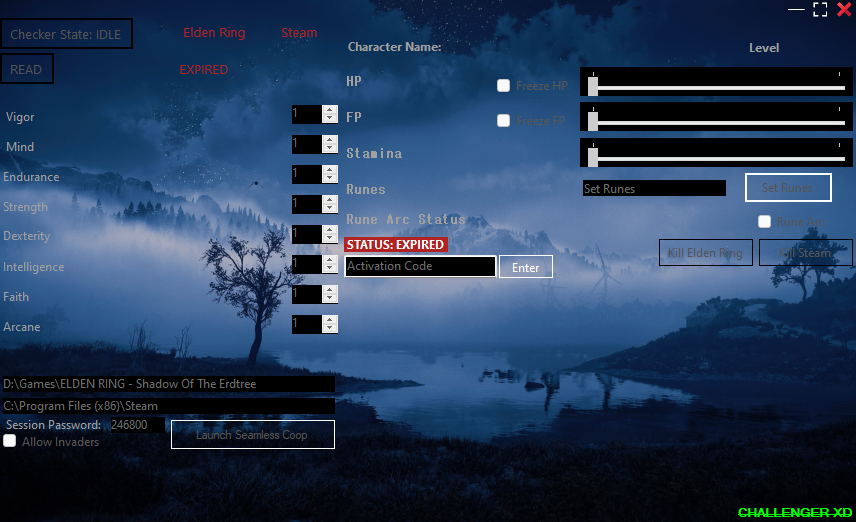
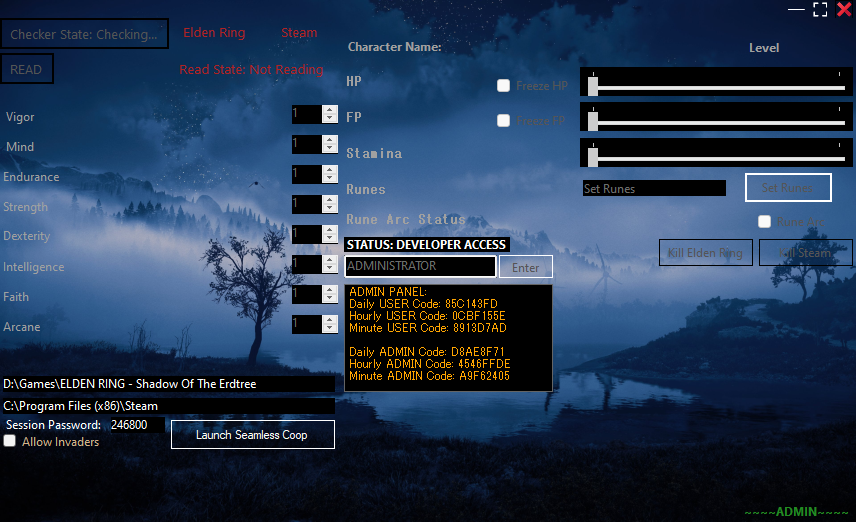
update readme.md

diff --git a/readme.md b/readme.md
@@ -1,4 +1,4 @@
-**Elden Ring Manager**
+**Elden Ring Manager ~ADMIN ONLY~**
 
 - ***ERM*** Aims to fix Seamless Coop Mod for older game Versions ex: v1.12  
 - ***ERM*** will **NEVER** manipulate game's Save Files !
